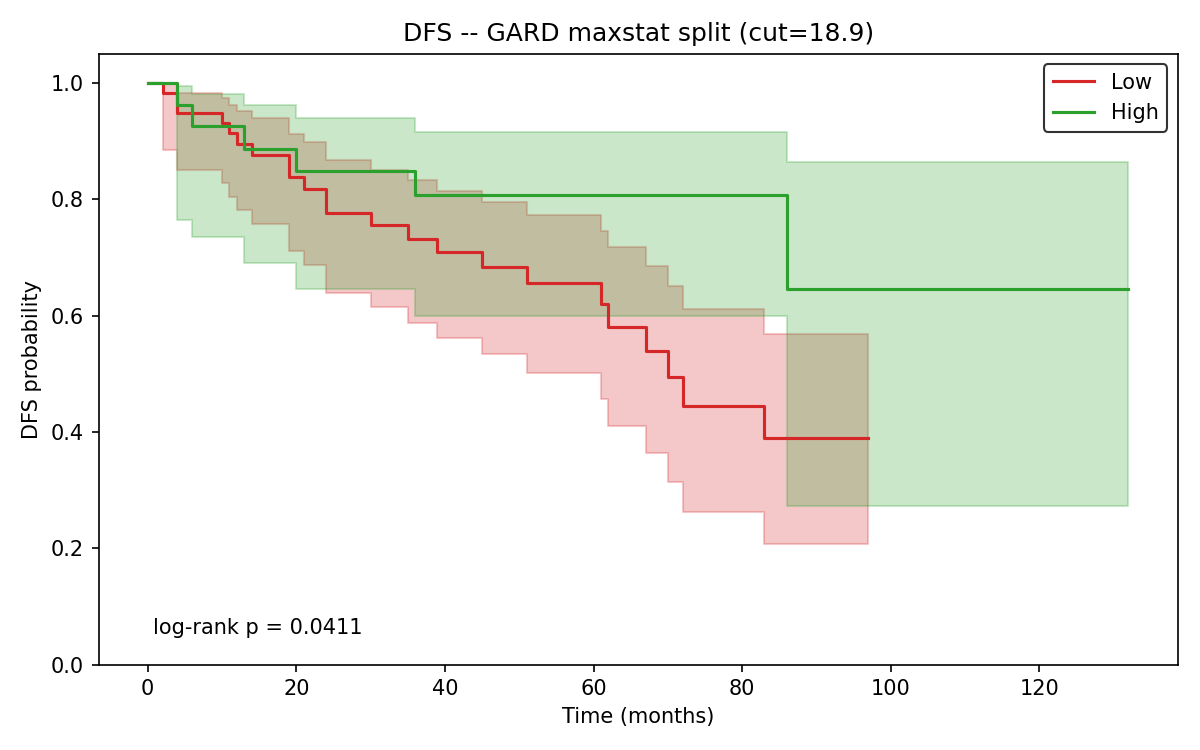
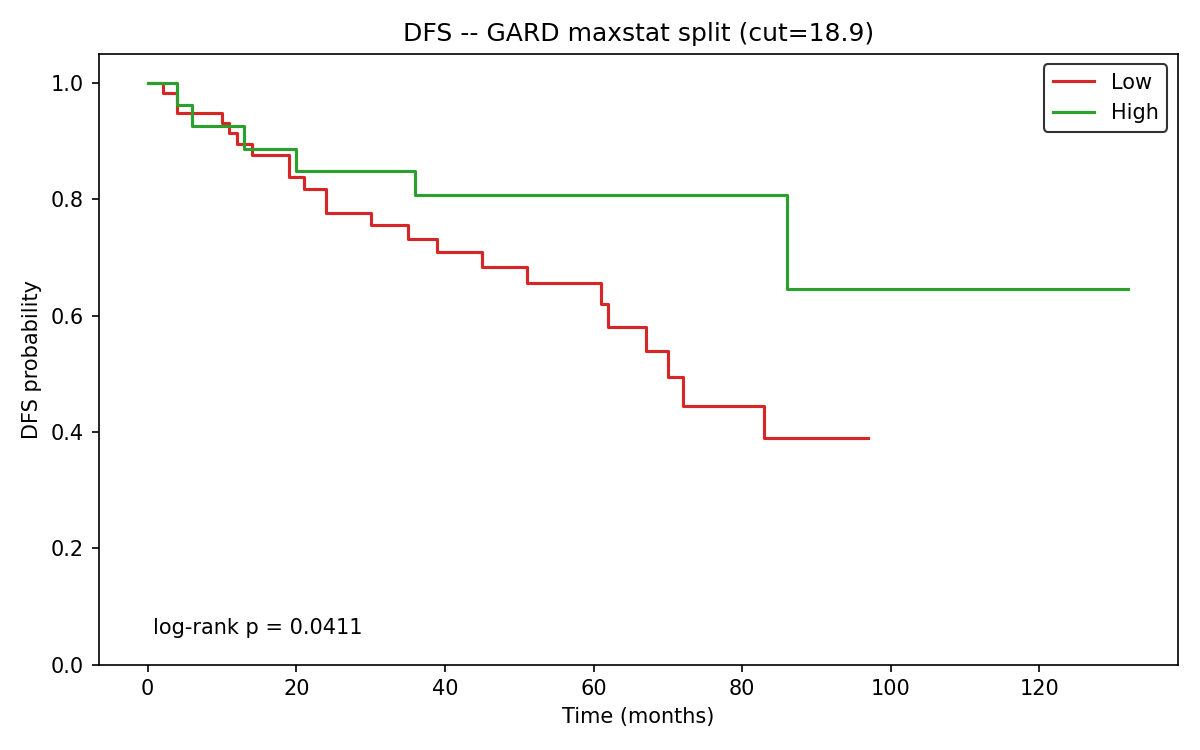
updated tutorial repo

Changed region(s): [[0.1233, 0.092, 0.9558, 0.736]]

diff --git a/tutorial.py b/tutorial.py
@@ -518,7 +518,7 @@ def plot_km_2group(group_col, title, outpath, colors):
     for grp in (grp_a, grp_b):
         mask = df[group_col] == grp
         kmf.fit(df.loc[mask, TIME_COL], df.loc[mask, EVENT_COL], label=grp)
-        kmf.plot_survival_function(ax=ax, color=colors[grp], ci_show=True)
+        kmf.plot_survival_function(ax=ax, color=colors[grp], ci_show=False)
 
     lr = logrank_test(
         df.loc[df[group_col] == grp_a, TIME_COL], df.loc[df[group_col] == grp_b, TIME_COL],

diff --git a/readme.md b/readme.md
@@ -6,19 +6,15 @@ A self-contained tutorial that computes three genome-based radiosensitivity biom
 - **GARD** (Genomically Adjusted Radiation Dose) — RSI combined with the delivered fractionation through the linear-quadratic model; the biological *effect* a given physical dose achieves.
 - **RxRSI** — the inverse: the physical dose a patient would need to reach a target GARD.
 
-The full write-up (background, formulas, figures, and discussion) lives in [`2026-05-29-radiosensitivity.md`](2026-05-29-radiosensitivity.md).
-
 ## Dataset
 
-We use **GSE190826** — pre-treatment rectal cancer biopsies treated with neoadjuvant chemoradiotherapy (**50.4 Gy / 28 fractions = 1.8 Gy/fraction**), with disease-free survival (DFS) and pathological-response (pCR) data.
+We use **GSE190826**, pre-treatment rectal cancer biopsies treated with neoadjuvant chemoradiotherapy (**50.4 Gy / 28 fractions = 1.8 Gy/fraction**), with disease-free survival (DFS) and pathological-response (pCR) data.
 
 - GEO record: <https://www.ncbi.nlm.nih.gov/geo/query/acc.cgi?acc=GSE190826>
 - Raw counts (downloaded automatically by `tutorial.py`): <https://ftp.ncbi.nlm.nih.gov/geo/series/GSE190nnn/GSE190826/suppl/GSE190826_RAW.tar>
 - Source publication (Cancer Cell, 2022): <https://www.cell.com/cancer-cell/fulltext/S1535-6108(22)00006-X>
 
 After filtering to pre-CRT biopsies the cohort is **n = 105** (86 with DFS data; 26 pCR / 79 non-pCR).
-
-> **Note on fractionation.** RSI/GARD are calibrated at standard 2 Gy/fraction. This cohort is at 1.8 Gy/fraction, so the absolute RxRSI doses are best read as an *ordinal radiosensitivity ranking* rather than literal prescriptions (see the post for details).
 
 ## Background papers
 
@@ -29,8 +25,6 @@ After filtering to pre-CRT biopsies the cohort is **n = 105** (86 with DFS data;
 | RxRSI / personalized dose (NSCLC) | Scott et al., *J. Thorac. Oncol.* 2021 | [10.1016/j.jtho.2020.11.008](https://doi.org/10.1016/j.jtho.2020.11.008) |
 | Maximally selected rank statistics | Lausen & Schumacher, *Biometrics* 1992 | [10.2307/2532740](https://doi.org/10.2307/2532740) |
 | GSE190826 source (rectal cancer) | Cancer Cell, 2022 | [10.1016/j.ccell.2022.01.004](https://doi.org/10.1016/j.ccell.2022.01.004) |
-
-BibTeX entries for all of these are in [`2026-05-29-radiosensitivity.bib`](2026-05-29-radiosensitivity.bib). The three Scott et al. papers are also bundled as PDFs under [`data/references/`](data/references/) for convenience.
 
 ## Setup
 
@@ -54,21 +48,6 @@ On first run it downloads `GSE190826_RAW.tar` (once), parses per-sample `feature
 - `data/results.csv` — per-patient RSI, GARD, RxRSI, group labels, and survival columns.
 - `data/gse190826_processed.h5ad` — the full processed `AnnData`.
 - `figures/*.png` — all plots (RSI/GARD distributions, maxstat scan, Cox forest plots, Kaplan–Meier curves, RxRSI waterfall/spectrum, etc.).
-
-## Pipeline (in `tutorial.py`)
-
-Organized as numbered `# %%` cells so you can step through it in VS Code or Jupyter:
-
-1. Fetch GSE190826 (download + parse, cached).
-2. Filter to pre-CRT biopsies.
-3. Build `AnnData`, attach the protocol dose (50.4 Gy / 28 fx).
-4. Normalize raw counts → CPM → `log1p`.
-5. Compute **RSI** (per-sample gene ranking, 10-gene weighted sum).
-6. Compute **GARD** (RSI → α at the 2 Gy reference, then the LQ effect at 1.8 Gy).
-7. Dichotomize GARD (median split + maxstat, 2 groups).
-8. **Cox** proportional-hazards models (univariate + adjusted for pCR).
-9. **Kaplan–Meier** curves (GARD median, GARD maxstat, pCR response).
-10. Compute **RxRSI** = GARD_T / (α + βd) and classify each patient as over-/adequately-/under-dosed vs the delivered 50.4 Gy.
 
 ## Repository layout
 
